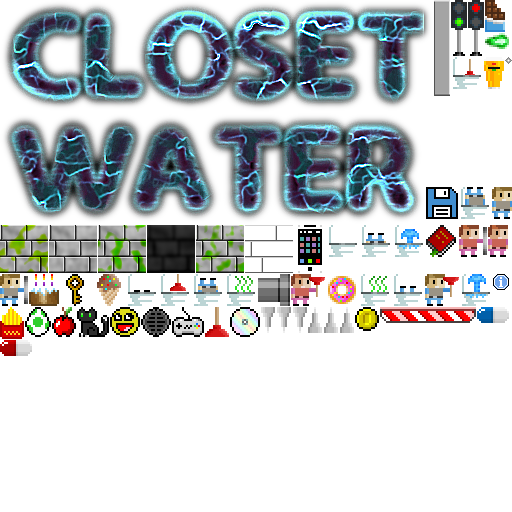
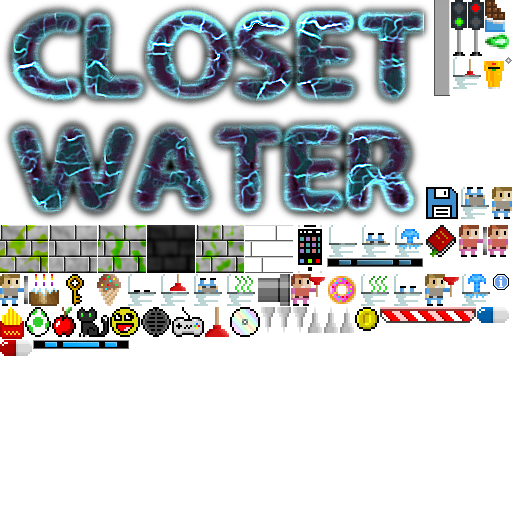
Added pressure plate.

Changed region(s): [[0.625, 0.5, 0.8438, 0.5312], [0.0625, 0.6562, 0.25, 0.6875], [0.8438, 0.0, 0.875, 0.0312]]

diff --git a/src/entities/pressurePlate.c b/src/entities/pressurePlate.c
@@ -1,0 +1,117 @@
+/*
+Copyright (C) 2019 Parallel Realities
+
+This program is free software; you can redistribute it and/or
+modify it under the terms of the GNU General Public License
+as published by the Free Software Foundation; either version 2
+of the License, or (at your option) any later version.
+
+This program is distributed in the hope that it will be useful,
+but WITHOUT ANY WARRANTY; without even the implied warranty of
+MERCHANTABILITY or FITNESS FOR A PARTICULAR PURPOSE.
+
+See the GNU General Public License for more details.
+
+You should have received a copy of the GNU General Public License
+along with this program; if not, write to the Free Software
+Foundation, Inc., 59 Temple Place - Suite 330, Boston, MA  02111-1307, USA.
+
+*/
+
+#include "pressurePlate.h"
+
+static void tick(void);
+static void load(cJSON *root);
+static void save(cJSON *root);
+static void touch(Entity *other);
+
+static AtlasImage *idleTexture;
+static AtlasImage *activeTexture;
+
+void initPressurePlate(Entity *e)
+{
+	PressurePlate *p;
+	
+	idleTexture = getAtlasImage("gfx/entities/pressurePlateIdle.png", 1);
+	activeTexture = getAtlasImage("gfx/entities/pressurePlateActive.png", 1);
+	
+	p = malloc(sizeof(PressurePlate));
+	memset(p, 0, sizeof(PressurePlate));
+	
+	e->typeName = "pressurePlate";
+	e->type = ET_STRUCTURE;
+	e->data = p;
+	e->tick = tick;
+	e->touch = touch;
+	e->atlasImage = idleTexture;
+	e->w = e->atlasImage->rect.w;
+	e->h = e->atlasImage->rect.h;
+	e->flags = EF_SOLID+EF_WEIGHTLESS;
+	
+	e->load = load;
+	e->save = save;
+}
+
+static void tick(void)
+{
+	PressurePlate *p;
+	int prevWeight;
+	
+	p = (PressurePlate*)self->data;
+	
+	prevWeight = p->weight;
+	
+	p->weight = MAX(p->weight - 1, 0);
+	
+	if (p->weight == 0)
+	{
+		if (prevWeight > 0)
+		{
+			activeEntities(p->targetName, 0);
+		}
+		
+		self->atlasImage = idleTexture;
+	}
+	else
+	{
+		self->atlasImage = activeTexture;
+	}
+}
+
+static void touch(Entity *other)
+{
+	PressurePlate *p;
+	
+	if (other != NULL)
+	{
+		p = (PressurePlate*)self->data;
+		
+		if (p->weight == 0)
+		{
+			activeEntities(p->targetName, 1);
+			
+			playPositionalSound(SND_PRESSURE_PLATE, CH_SWITCH, self->x, self->y, stage.player->x, stage.player->y);
+		}
+		
+		p->weight = 2;
+	}
+}
+
+static void load(cJSON *root)
+{
+	PressurePlate *p;
+	
+	p = (PressurePlate*)self->data;
+	
+	STRNCPY(p->targetName, cJSON_GetObjectItem(root, "targetName")->valuestring, MAX_NAME_LENGTH);
+}
+
+static void save(cJSON *root)
+{
+	PressurePlate *p;
+	
+	p = (PressurePlate*)self->data;
+	
+	cJSON_AddStringToObject(root, "type", self->typeName);
+	cJSON_AddStringToObject(root, "targetName", p->targetName);
+}

diff --git a/src/entities/pressurePlate.h b/src/entities/pressurePlate.h
@@ -21,20 +21,10 @@ Foundation, Inc., 59 Temple Place - Suite 330, Boston, MA  02111-1307, USA.
 #include "../common.h"
 #include "../json/cJSON.h"
 
-extern void initCoin(Entity *e);
-extern void initDoor(Entity *e);
-extern void initItem(Entity *e);
-extern void initKey(Entity *e);
-extern void initManholeCover(Entity *e);
-extern void initPlatform(Entity *e);
-extern void initPlayer(Entity *e);
-extern void initPlunger(Entity *e);
-extern void initRoofSpikes(Entity *e);
-extern void initSpikes(Entity *e);
-extern void initSpitter(Entity *e);
-extern void initToilet(Entity *e);
-extern void initTrafficLight(Entity *e);
-extern void initPressurePlate(Entity *e);
+extern void calcSlope(int x1, int y1, int x2, int y2, float *dx, float *dy);
+extern AtlasImage *getAtlasImage(char *filename, int required);
+extern void activeEntities(char *targetName, int activate);
+extern void playPositionalSound(int snd, int ch, int srcX, int srcY, int destX, int destY);
 
 extern Entity *self;
 extern Stage stage;

diff --git a/src/system/sound.c b/src/system/sound.c
@@ -118,6 +118,7 @@ static void loadSounds(void)
 	sounds[SND_ITEM] = Mix_LoadWAV("sound/item.ogg");
 	sounds[SND_TIP] = Mix_LoadWAV("sound/tip.ogg");
 	sounds[SND_PLUNGE] = Mix_LoadWAV("sound/plunge.ogg");
+	sounds[SND_PRESSURE_PLATE] = Mix_LoadWAV("sound/245242__noirenex__beepping.ogg");
 }
 
 void loadRandomStageMusic(void)

diff --git a/src/world/entities.c b/src/world/entities.c
@@ -123,12 +123,12 @@ static void push(Entity *e, float dx, float dy)
 	e->x += dx;
 	e->y += dy;
 	
+	moveToEntities(e, dx, dy);
+	
 	if (!(e->flags & EF_NO_WORLD_CLIP))
 	{
 		moveToWorld(e, dx, dy);
 	}
-	
-	moveToEntities(e, dx, dy);
 }
 
 static void moveToWorld(Entity *e, float dx, float dy)

diff --git a/src/world/entityFactory.c b/src/world/entityFactory.c
@@ -43,6 +43,7 @@ void initEntityFactory(void)
 	addInitFunc("trafficLight", initTrafficLight);
 	addInitFunc("item", initItem);
 	addInitFunc("platform", initPlatform);
+	addInitFunc("pressurePlate", initPressurePlate);
 	
 	entityId = 0;
 }

diff --git a/src/structs.h b/src/structs.h
@@ -145,6 +145,11 @@ typedef struct {
 	float sparkleValue;
 } Item;
 
+typedef struct {
+	int weight;
+	char targetName[MAX_NAME_LENGTH];
+} PressurePlate;
+
 struct CloneData {
 	int frame;
 	float dx;

diff --git a/src/defs.h b/src/defs.h
@@ -131,6 +131,7 @@ enum
 	SND_FAIL,
 	SND_TIP,
 	SND_PLUNGE,
+	SND_PRESSURE_PLATE,
 	SND_MAX
 };
 
